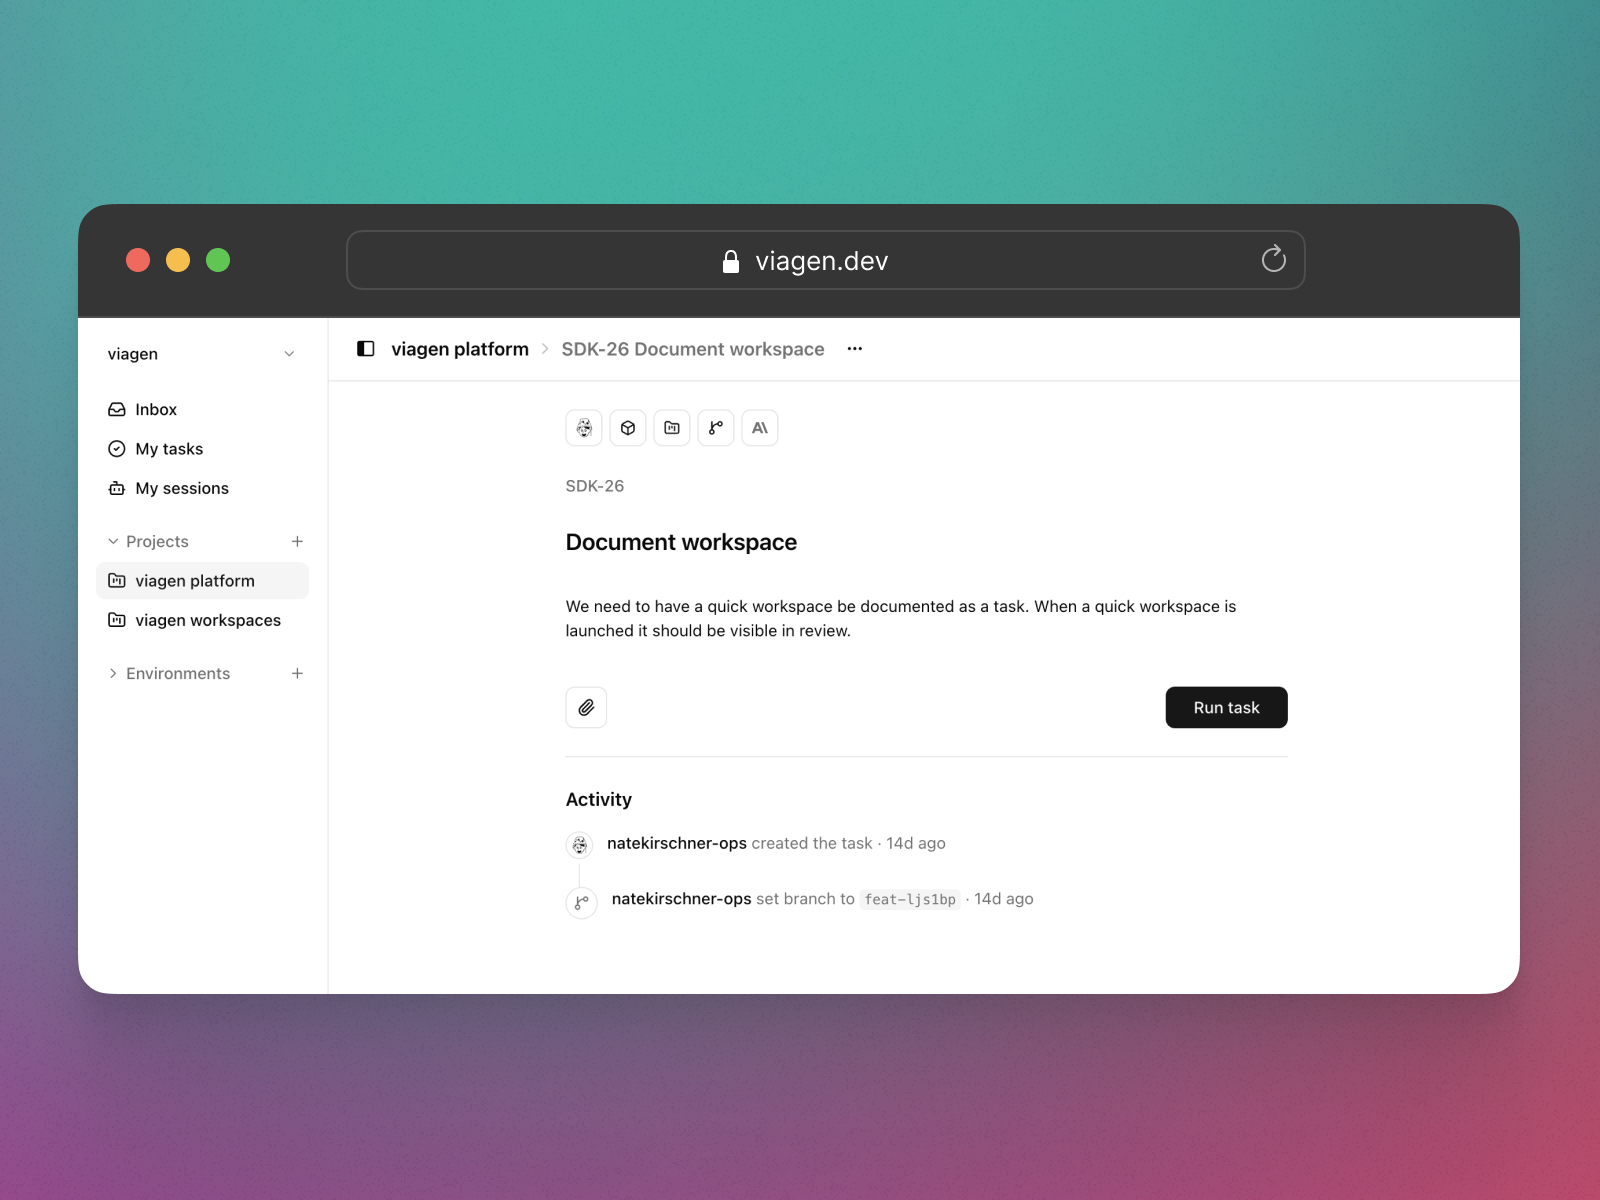
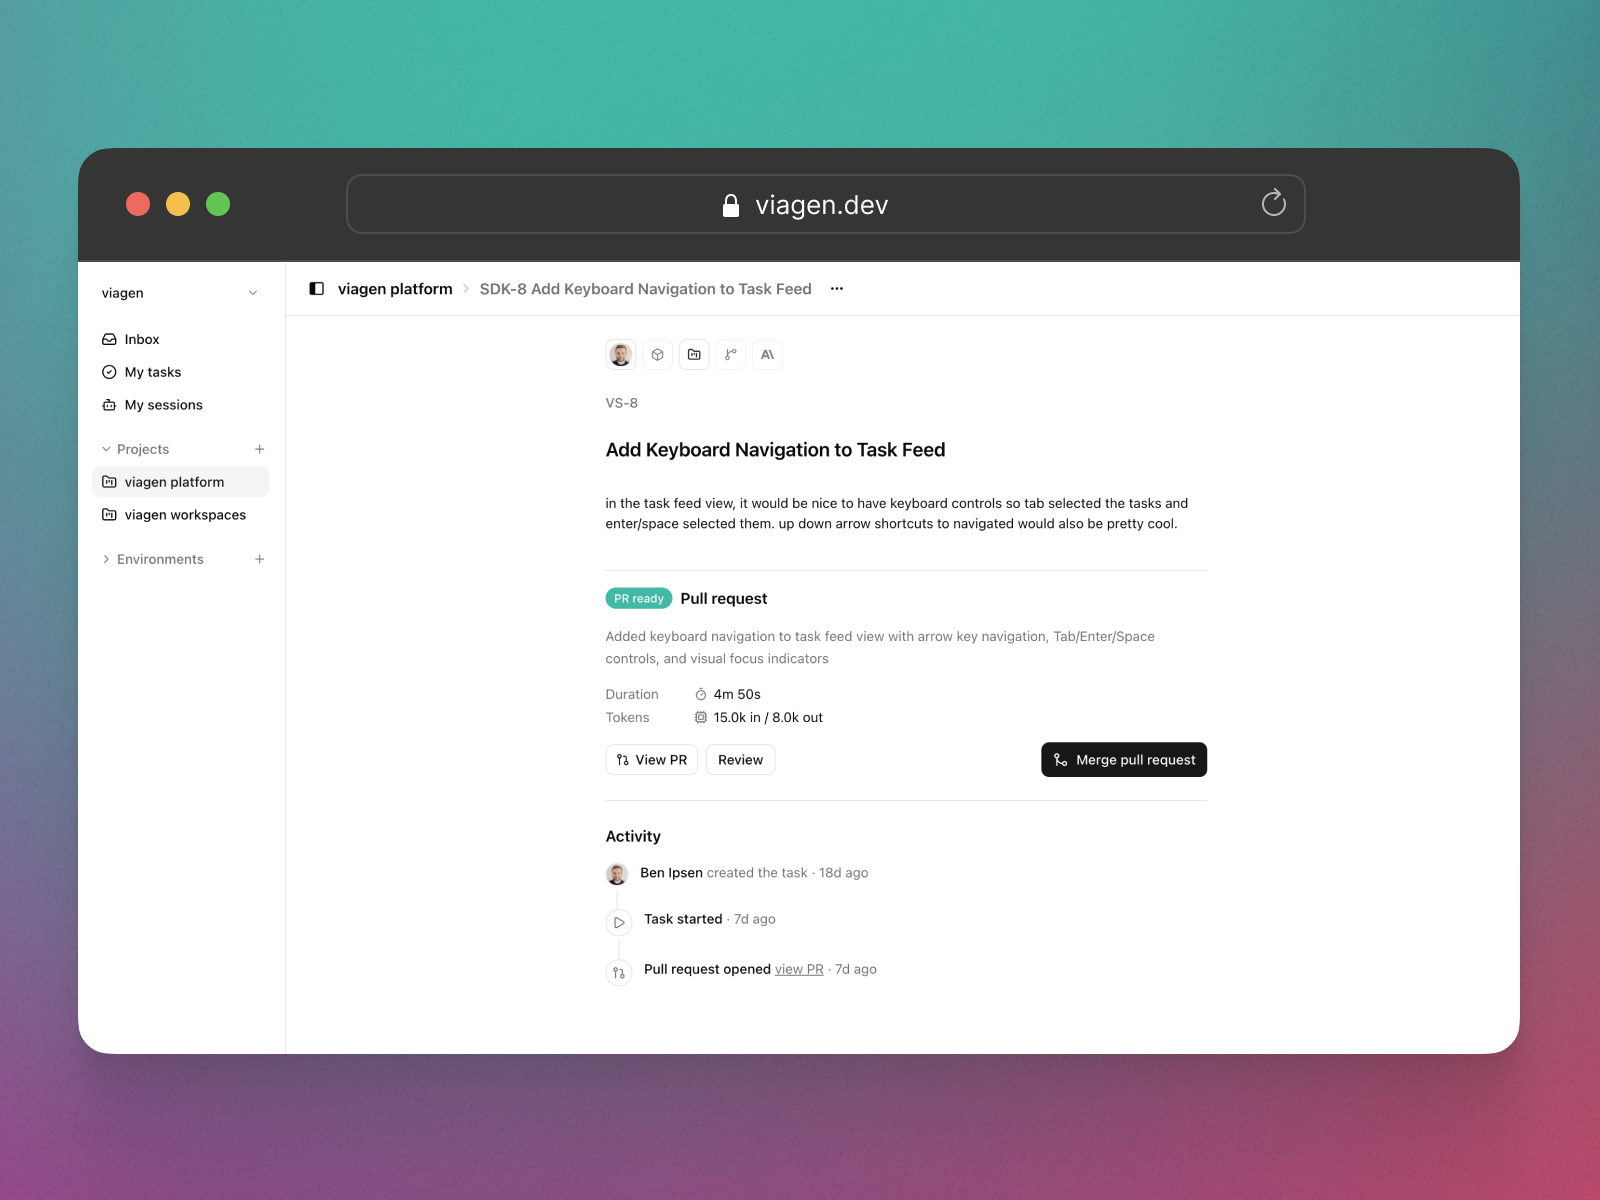
Viagen project update

diff --git a/src/data/portfolio.ts b/src/data/portfolio.ts
@@ -6,10 +6,10 @@ export const portfolioItems: PortfolioItem[] = [
     title: "Viagen Platform",
     description:
       "A platform that empowers teams to move ideas towards production at the speed of thought. Viagen combines task management, AI automation and sane access control —it’s collaborative, safe, and fast.",
-    shortDescription: "Product Design",
+    shortDescription: "AI-Native Product Design",
     thumbnailUrl: "/content/viagen/thumbnail.jpg",
     metadata: {
-      projectType: "Product Design",
+      projectType: "AI-Native Product Design",
       client: "Compute & Token",
     },
   },

diff --git a/src/components/custom-detail-views/viagen/index.tsx b/src/components/custom-detail-views/viagen/index.tsx
@@ -35,6 +35,13 @@ const ViagenDetail = ({ item }: ViagenDetailProps) => {
           className="w-full rounded-2xl"
         />
       </div>
+      <div className="mt-20 max-w-4xl mx-auto px-6">
+        <img
+          src="/content/viagen/viagen_02.jpg"
+          alt="Viagen workspace"
+          className="w-full rounded-2xl"
+        />
+      </div>
       {/* Closing */}
       <div className="max-w-2xl mt-20 mx-auto px-6 mb-40">
         <div className="text-gray-50 leading-relaxed font-normal text-md md:text-lg">
